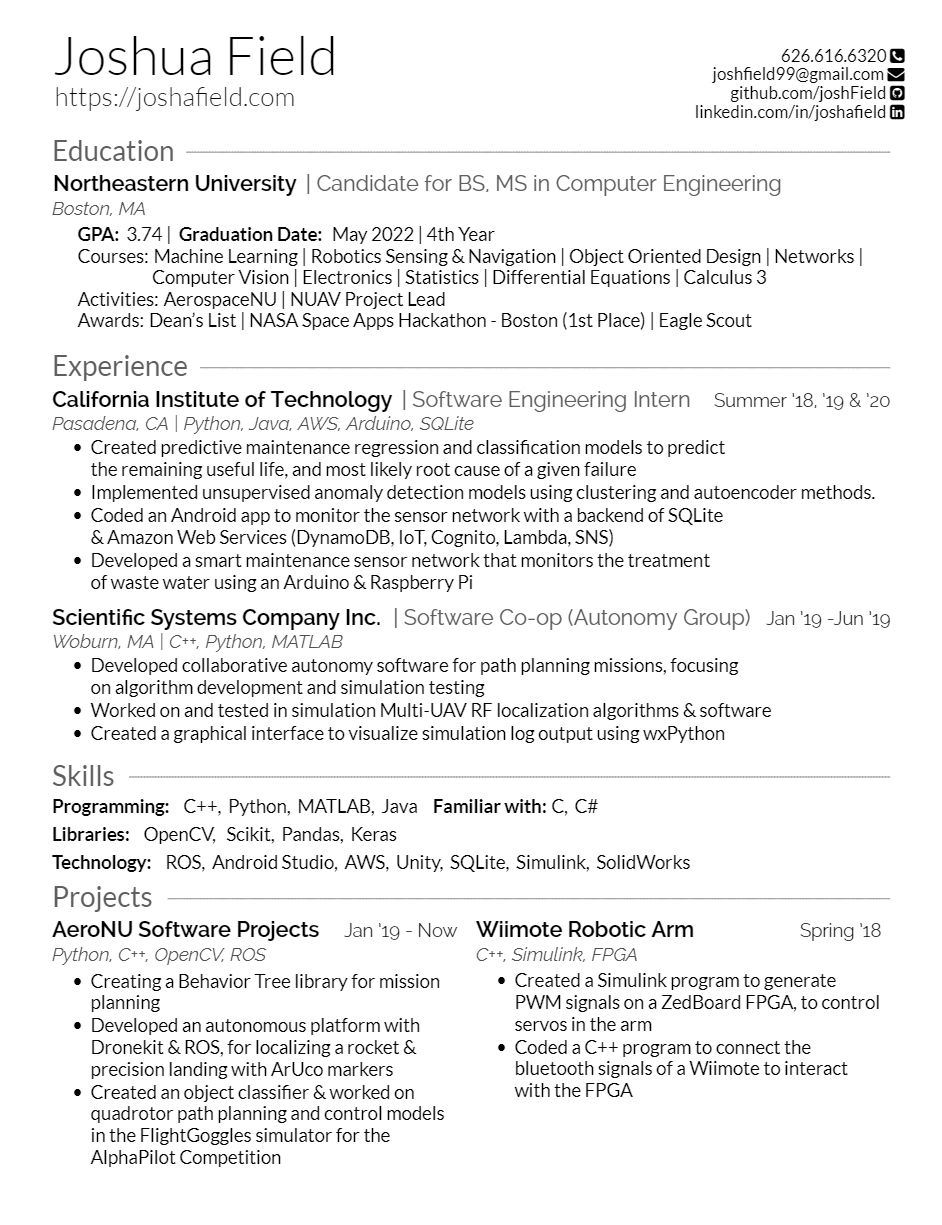
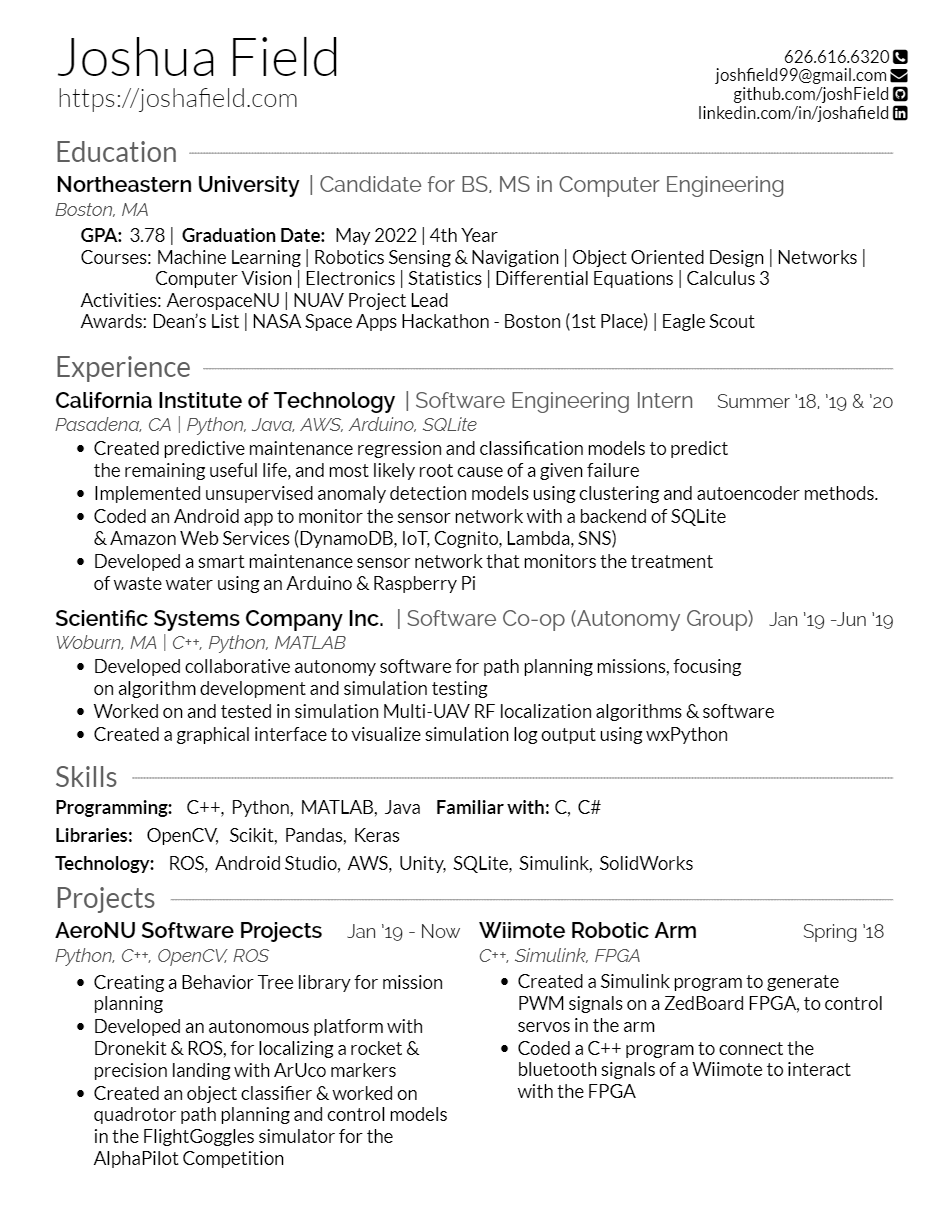
gpa update

Changed region(s): [[0.0308, 0.031, 0.9544, 0.9624], [0.5849, 0.031, 0.9851, 0.1552], [0.7696, 0.2794, 0.9544, 0.3415]]

diff --git a/resume.tex b/resume.tex
@@ -27,7 +27,7 @@
     \technologies{Boston, MA}\\
     \vspace{0.5mm}
     \body{
-    \hspace{5 mm}\bodybold{GPA:} 3.74 | \bodybold{Graduation Date:} May 2022 | 4th Year\\
+    \hspace{5 mm}\bodybold{GPA:} 3.78 | \bodybold{Graduation Date:} May 2022 | 4th Year\\
     \hspace{5 mm} Courses: Machine Learning | Robotics Sensing \& Navigation | Object Oriented Design | Networks |\\
     \hspace{22mm} Computer Vision | Electronics | Statistics | Differential Equations | Calculus 3\\
     \hspace{5 mm} Activities: AerospaceNU | NUAV Project Lead\\
